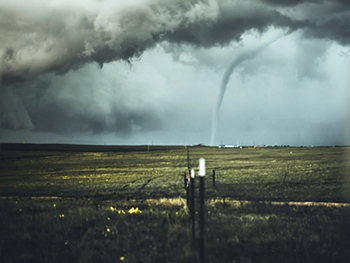
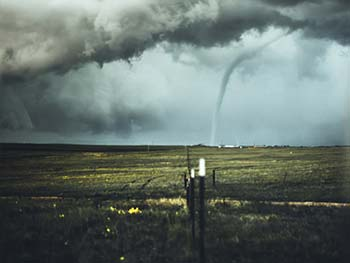
Initial commit

diff --git a/lesson7/gallery-7.html b/lesson7/gallery-7.html
@@ -52,64 +52,64 @@
 <h1 class="weathergallery">Weather Gallery</h1>
 <section class="weathergallery">
     <figure>
-        <source media="(max-width: 150px)" srcset="/lesson7/weather1-assets/weather1-1.png">
-        <source media="(max-width: 250px)" srcset="/lesson7/weather1-assets/weather1.png">
+        <source media="(max-width: 150px)" srcset="/lesson7/weather1-assets/weather1-1.jpg">
+        <source media="(max-width: 250px)" srcset="/lesson7/weather1-assets/weather1.jpg">
         <source media="(max-width: 350px)" srcset="/lesson7/weather1.jpg">
         <img src="/lesson7/placeholderhoriz.png" data-src="/lesson7/weather1.jpg" alt="Lightening Storm">
         <figcaption>Lightening Storm</figcaption>
         </figure>
         <figure>
-            <source media="(max-width: 150px)" srcset="/lesson7/weather2-assets/weather2-1.png">
-            <source media="(max-width: 250px)" srcset="/lesson7/weather2-assets/weather2.png">
+            <source media="(max-width: 150px)" srcset="/lesson7/weather2-assets/weather2-1.jpg">
+            <source media="(max-width: 250px)" srcset="/lesson7/weather2-assets/weather2.jpg">
             <source media="(max-width: 350px)" srcset="/lesson7/weather2.jpg">
             <img src="/lesson7/placeholderhoriz.png" data-src="/lesson7/weather2.jpg" alt="Farmer's Field in Summer">
             <figcaption>Farmer's Field in Summer</figcaption>
             </figure>
             <figure>
-                <source media="(max-width: 150px)" srcset="/lesson7/weather3-assets/weather3-1.png">
-                <source media="(max-width: 250px)" srcset="/lesson7/weather3-assets/weather3.png">
+                <source media="(max-width: 150px)" srcset="/lesson7/weather3-assets/weather3-1.jpg">
+                <source media="(max-width: 250px)" srcset="/lesson7/weather3-assets/weather3.jpg">
                 <source media="(max-width: 350px)" srcset="/lesson7/weather3.jpg">
                 <img src="/lesson7/placeholderhoriz.png" data-src="/lesson7/weather3.jpg" alt="Rain and Fog in the Mountains">
                 <figcaption>Rain and Fog in the Mountains</figcaption>
                 </figure>
                 <figure>
-                    <source media="(max-width: 150px)" srcset="/lesson7/weather4-assets/weather4-1.png">
-                    <source media="(max-width: 250px)" srcset="/lesson7/weather4-assets/weather4.png">
+                    <source media="(max-width: 150px)" srcset="/lesson7/weather4-assets/weather4-1.jpg">
+                    <source media="(max-width: 250px)" srcset="/lesson7/weather4-assets/weather4.jpg">
                     <source media="(max-width: 350px)" srcset="/lesson7/weather4.jpg">
                     <img src="/lesson7/placeholderhoriz.png" data-src="/lesson7/weather4.jpg" alt="Snow Covered Mountains, Forest, and Lake">
                     <figcaption>Snow Covered Mountains, Forest, and Lake</figcaption>
                     </figure>
                     <figure>
-                        <source media="(max-width: 150px)" srcset="/lesson7/weather5-assets/weather5-1.png">
-                        <source media="(max-width: 250px)" srcset="/lesson7/weather5-assets/weather5.png">
+                        <source media="(max-width: 150px)" srcset="/lesson7/weather5-assets/weather5-1.jpg">
+                        <source media="(max-width: 250px)" srcset="/lesson7/weather5-assets/weather5.jpg">
                         <source media="(max-width: 350px)" srcset="/lesson7/weather5.jpg">
                         <img src="/lesson7/placeholderhoriz.png" data-src="/lesson7/weather5.jpg" alt="Rainbow over the Mountaintops">
                         <figcaption>Rainbow over the Mountaintops</figcaption>
                         </figure>
                         <figure>
-                            <source media="(max-width: 150px)" srcset="/lesson7/weather6-assets/weather6-1.png">
-                            <source media="(max-width: 250px)" srcset="/lesson7/weather6-assets/weather6.png">
+                            <source media="(max-width: 150px)" srcset="/lesson7/weather6-assets/weather6-1.jpg">
+                            <source media="(max-width: 250px)" srcset="/lesson7/weather6-assets/weather6.jpg">
                             <source media="(max-width: 350px)" srcset="/lesson7/weather6.jpg">
                             <img src="/lesson7/placeholderhoriz.png" data-src="/lesson7/weather6.jpg" alt="Dry Summer Heat">
                             <figcaption>Dry Summer Heat</figcaption>
                             </figure>
                             <figure>
-                                <source media="(max-width: 150px)" srcset="/lesson7/weather7-assets/weather7-1.png">
-                                <source media="(max-width: 250px)" srcset="/lesson7/weather7-assets/weather7.png">
+                                <source media="(max-width: 150px)" srcset="/lesson7/weather7-assets/weather7-1.jpg">
+                                <source media="(max-width: 250px)" srcset="/lesson7/weather7-assets/weather7.jpg">
                                 <source media="(max-width: 350px)" srcset="/lesson7/weather7.jpg">
                                 <img src="/lesson7/placeholderhoriz.png" data-src="/lesson7/weather7.jpg" alt="Small Tornado">
                                 <figcaption>Small Tornado</figcaption>
                                 </figure>
                                 <figure>
-                                    <source media="(max-width: 150px)" srcset="/lesson7/weather8-assets/weather8-1.png">
-                                    <source media="(max-width: 250px)" srcset="/lesson7/weather8-assets/weather8.png">
+                                    <source media="(max-width: 150px)" srcset="/lesson7/weather8-assets/weather8-1.jpg">
+                                    <source media="(max-width: 250px)" srcset="/lesson7/weather8-assets/weather8.jpg">
                                     <source media="(max-width: 350px)" srcset="/lesson7/weather8.jpg">
                                     <img src="/lesson7/placeholderhoriz.png" data-src="/lesson7/weather8.jpg" alt="Purple Crocuses in Springtime">
                                     <figcaption>Purple Crocuses in Springtime</figcaption>
                                     </figure>
                                     <figure>
-                                        <source media="(max-width: 150px)" srcset="/lesson7/weather9-assets/weather9-1.png">
-                                        <source media="(max-width: 250px)" srcset="/lesson7/weather9-assets/weather9.png">
+                                        <source media="(max-width: 150px)" srcset="/lesson7/weather9-assets/weather9-1.jpg">
+                                        <source media="(max-width: 250px)" srcset="/lesson7/weather9-assets/weather9.jpg">
                                         <source media="(max-width: 350px)" srcset="/lesson7/weather9.jpg">
                                         <img src="/lesson7/placeholderhoriz.png" data-src="/lesson7/weather9.jpg" alt="Icy, Snow Covered Road">
                                         <figcaption>Icy, Snow Covered Road</figcaption>
@@ -144,16 +144,9 @@
           </div>
         </div>
 
-        <iframe
-          class="map"
-          src="https://www.google.com/maps/embed?pb=!1m18!1m12!1m3!1d47365.773853438026!2d-111.91534443111685!3d42.09974162639047!2m3!1f0!2f0!3f0!3m2!1i1024!2i768!4f13.1!3m3!1m2!1s0x8754f78c7cda6c31%3A0xf1b3b4fc465a4a3f!2sPreston%2C%20ID%2083263!5e0!3m2!1sen!2sus!4v1612301102859!5m2!1sen!2sus"
-          width="900"
-          height="200"
-          style="border:0;"
-          allowfullscreen=""
-          aria-hidden="false"
-          tabindex="0"
-        ></iframe>
+ 
+        <a href="https://www.google.com/maps/place/Preston,+ID+83263/@42.0997416,-111.9154302,13z/data=!3m1!4b1!4m5!3m4!1s0x8754f78c7cda6c31:0xf1b3b4fc465a4a3f!8m2!3d42.0963133!4d-111.8766173?hl=en"><img class="prestonmap" src="/images/prestonmap.jpg"></a>
+ 
       </div>
           </footer>
       <div class="footer2">

diff --git a/lesson7/large-7.css b/lesson7/large-7.css
@@ -93,22 +93,21 @@
    
     footer {
       display: flex;
-      height: 250px;
+      height: 230px;
       margin-top: -.1px;
       max-width: 100%;
     }
     
-    .map {
+    .prestonmap {
       display: flex;
       float: left;
       max-width: 50%;
       padding: 40px;
-      margin-top: -20px;
+      margin-top: -30px;
     }
     
     .contact {
     display: inline-block;
-    padding: 10px;
       
     }
   

diff --git a/lesson6/large-6.css b/lesson6/large-6.css
@@ -91,8 +91,7 @@
  
   footer {
     display: flex;
-    height: 250px;
-    margin-top: -.1px;
+    height: 230px;
     max-width: 100%;
   }
   
@@ -119,6 +118,7 @@
   font-size: 16px;
 }
   
+
   
 }
  
